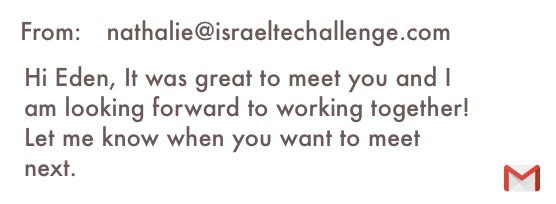
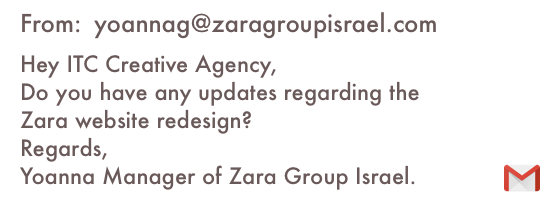
first present version

Changed region(s): [[0.0306, 0.2647, 0.8561, 0.9412], [0.0306, 0.0588, 0.8255, 0.2353], [0.1835, 0.7647, 0.214, 0.7941]]

diff --git a/MainDashboardbu3.html b/MainDashboardbu3.html
@@ -8,21 +8,30 @@
 	<script src="https://code.jquery.com/jquery-1.11.3.min.js"></script>
 	<script src="https://fb.me/react-0.14.0.js"></script>
 	<script src="https://fb.me/react-dom-0.14.0.js"></script>
+	<script src="generateScore.js"></script>
 	<script src="https://cdnjs.cloudflare.com/ajax/libs/babel-core/5.8.25/browser.min.js"></script>
 </head>
 <body>
-	<div>
-		<div id="main-page"></div>
-	</div>
 
+		<div id="main-page"></div>
+		<div id="notification">
+			<p><span>natalie@israeltechallenge.com</span> just sended you an email regarding the Zara project</p>
+		</div>
+	</div>
 	<script type="text/babel">
 
 	var numOfProjects = 4;
 	var teamMembers = {};
 
+	// var getScore = setInterval(checkScore, 1000)
+	// function checkScore(){
+	// 	checkScore("omni", 10);
+	// }
+
 	var AppScreen = React.createClass({
 		
 		handleClickedProjectItem: function(update){
+
 			this.setState({isShowMain: update});
 		},
 		getInitialState: function(){
@@ -62,12 +71,20 @@
 					<main>
 						<div className="container">
 							<div className="row firstrow">
-								<ProjectItem handleClickedProjectItem={this.props.handleClickedProjectItem} plant="1.png"/>
-								<ProjectItem handleClickedProjectItem={this.props.handleClickedProjectItem} plant ="assets/deadplant.gif"/>
+								<ProjectItem handleClickedProjectItem={this.props.handleClickedProjectItem} plant="1.png" name="ZARA"/>
+								<ProjectItem handleClickedProjectItem={this.props.handleClickedProjectItem} plant ="assets/deadplant.gif" name="BurgerKing App"/>
 							</div>
 							<div className="row">
-								<ProjectItem handleClickedProjectItem={this.props.handleClickedProjectItem} plant= "5.png"/>
-								<ProjectItem handleClickedProjectItem={this.props.handleClickedProjectItem} plant ="8.png"/>
+								<ProjectItem handleClickedProjectItem={this.props.handleClickedProjectItem} plant= "5.png" name="Startup Landingpage"/>
+								<div onClick={this.handleClickProjectItem}>
+					<div className="project-item col-lg-6">
+						<PlantImage plant = {this.props.plant} />
+
+						<div className="project-card add-project">
+							<h1>ADD PROJECT</h1>
+						</div>
+					</div>
+				</div>
 							</div>
 						</div>
 					</main>
@@ -96,11 +113,40 @@
         console.log(myVar);
 
         $("#encourage-btn").click(function (e) {
+        	$("#notification p").html("<span>Good Job!</span> Your reply is sent to yoannag@zaragroupisrael.com");
+        	$("#notification").css("right","500px")
             var myVar = parseInt($(".showimg").eq(0).attr('id'));
             var newVar = myVar + 1;
             console.log(myVar);
             e.preventDefault();
             if(newVar<8){
+            	$("#notification").slideDown();
+            	setTimeout(function(){$("#notification").slideUp()},4000)
+                $(".showimg")
+                        .delay(1000).fadeOut(0, function () {
+                            $(".showimg").attr('src', (newVar) + ".png");
+                            $(".showimg").eq(0).attr('id', newVar);
+                        })
+                        .fadeIn(200);
+
+                $(".backimg").delay(1010).fadeOut(500, function () {
+                    $(".backimg").attr('src', (newVar) + ".png");
+                    $(".backimg").eq(0).attr('id', newVar);
+                }).fadeIn(10);
+            }
+
+        });
+          $(".main-plant").click(function (e) {
+          	$("#notification p").html("<span>natalie@israeltechallenge.com</span> just sended you an email regarding the Zara project")
+            var myVar = parseInt($(".showimg").eq(0).attr('id'));
+            var newVar = myVar + 1;
+            console.log(myVar);
+            e.preventDefault();
+                    	$("#notification").css("right","400px")
+
+            if(newVar<8){
+            	$("#notification").slideDown();
+            	setTimeout(function(){$("#notification").slideUp()},4000)
                 $(".showimg")
                         .delay(1000).fadeOut(0, function () {
                             $(".showimg").attr('src', (newVar) + ".png");
@@ -159,7 +205,7 @@
 
 							<img onClick={this.returnToHome} src="assets/logo.png" alt=""/>
 							<div className="title">
-								<h1>HACKATHON</h1>
+								<h1>ZARA REDESIGN</h1>
 							</div>
 						</header>
 						<div className="green-line"></div>
@@ -218,7 +264,7 @@
 	var ProjectItem = React.createClass({
 		getDefaultProps: function(){
 			return {
-				projectName: "Hackathon",
+				// projectName: this.props.name
 			}
 		},
 		getInitialState: function(){
@@ -245,7 +291,7 @@
 						<PlantImage plant = {this.props.plant} />
 
 						<div className="project-card">
-							<h2>{this.props.projectName}</h2>
+							<h2>{this.props.name}</h2>
 						</div>
 					</div>
 				</div>
@@ -367,7 +413,7 @@
 					</span>
 						<div className="calenderevent">
 							<span>Meeting with </span> <span className="meetname">Omer Goldberg</span><br/>
-							<span className="meetbottomtext meetleft">12/2/17 </span><span className="meetbottomtext meetright">Rotchild Blvd.</span>
+							<span className="meetbottomtext meetleft">12/2/17 </span><span className="meetbottomtext meetright">Rotschild Blvd.</span>
 
 						</div>
 						<span> <img className="calendarprofilepic" src='assets/profilepic/Aviram.png' alt="" />
@@ -380,7 +426,7 @@
 					</span>
 						<div className="calenderevent">
 							<span>Team meeting with </span> <span className="meetname">Chen Mv</span><br/>
-							<span className="meetbottomtext meetleft">20/2/17 </span><span className="meetbottomtext meetright">Hertzel  st  16</span>
+							<span className="meetbottomtext meetleft">20/2/17 </span><span className="meetbottomtext meetright">Herzl St. 16</span>
 
 						</div>
 						<span> <img className="calendarprofilepic2" src='assets/profilepic/Valentine.png' alt="" />

diff --git a/generateScore.js b/generateScore.js
@@ -1,30 +1,4 @@
-<html>
-  <head>
-    <script src="https://code.jquery.com/jquery-1.11.3.min.js"></script>
-
-
-  <script src="https://cdnjs.cloudflare.com/ajax/libs/babel-core/5.8.25/browser.min.js"></script>
-    <script type="text/javascript">
-      // Your Client ID can be retrieved from your project in the Google
-      // Developer Console, https://console.developers.google.com
-     
-
-    </script>
-    <script src="https://apis.google.com/js/client.js?onload=checkAuth">
-    </script>
-  </head>
-  <body>
-    <div id="authorize-div" style="display: none">
-      <span>Authorize access to Gmail API</span>
-      <!--Button for the user to click to initiate auth sequence -->
-      <button id="authorize-button" onclick="handleAuthClick(event)">
-        Authorize
-      </button>
-    </div>
-    <pre id="output"></pre>
-
-    <script>
-     var CLIENT_ID = '26749447268-vsage3jpq227o4qk0u6nqbjesn658kk1.apps.googleusercontent.com';
+    var CLIENT_ID = '26749447268-vsage3jpq227o4qk0u6nqbjesn658kk1.apps.googleusercontent.com';
 
       var SCOPES = ['https://www.googleapis.com/auth/gmail.readonly'];
       var subjects =[];
@@ -177,7 +151,3 @@ function generateScore(projectName, maxScore){
   });
   return counter/maxScore;
 }
-
-    </script>
-  </body>
-</html>

diff --git a/css/style.css b/css/style.css
@@ -99,6 +99,7 @@ color:#484349;
 .main-plant{
 	padding-left: 130px;
 	height: 250px;
+	cursor: none;
 }
 .main-plant img{
 	width: 110px;
@@ -321,3 +322,55 @@ margin-top: 15px;
   opacity: 0.01;
   transition: opacity 300ms ease-in;
 }
+#notification{
+	display: none;
+	position: fixed;
+	background:#484349;
+	height: 50px;
+	bottom:0;
+	color:white;
+	right: 400px;
+	padding: 20px;	
+	font-size: 16px;
+	padding-bottom: 30px;
+
+}
+#notification span{
+	color:#109648;
+
+}
+.project-item .add-project{
+	background-color: #D5D5D5;
+	text-align: center;
+}
+.project-item .add-project h1{
+	color:#555151;
+	margin-top: 60px;
+
+}
+
+/*pre loader*/
+
+/* .circle {
+            border-radius: 50%;
+            position: absolute;
+            margin: auto;
+            top: 0;
+            right: 0;
+            bottom: 0;
+            left: 0;
+            width: 100px;
+            height: 100px;
+            border: 8px solid white;
+        }
+
+        .loader {
+            position: fixed;
+            left: 0px;
+            top: 0px;
+            width: 100%;
+            height: 100%;
+            z-index: 10;
+            background: url('spinnerfast.gif') 50% 50% no-repeat rgba(35, 35, 35, 0.86);
+            display: none;
+        }*/
